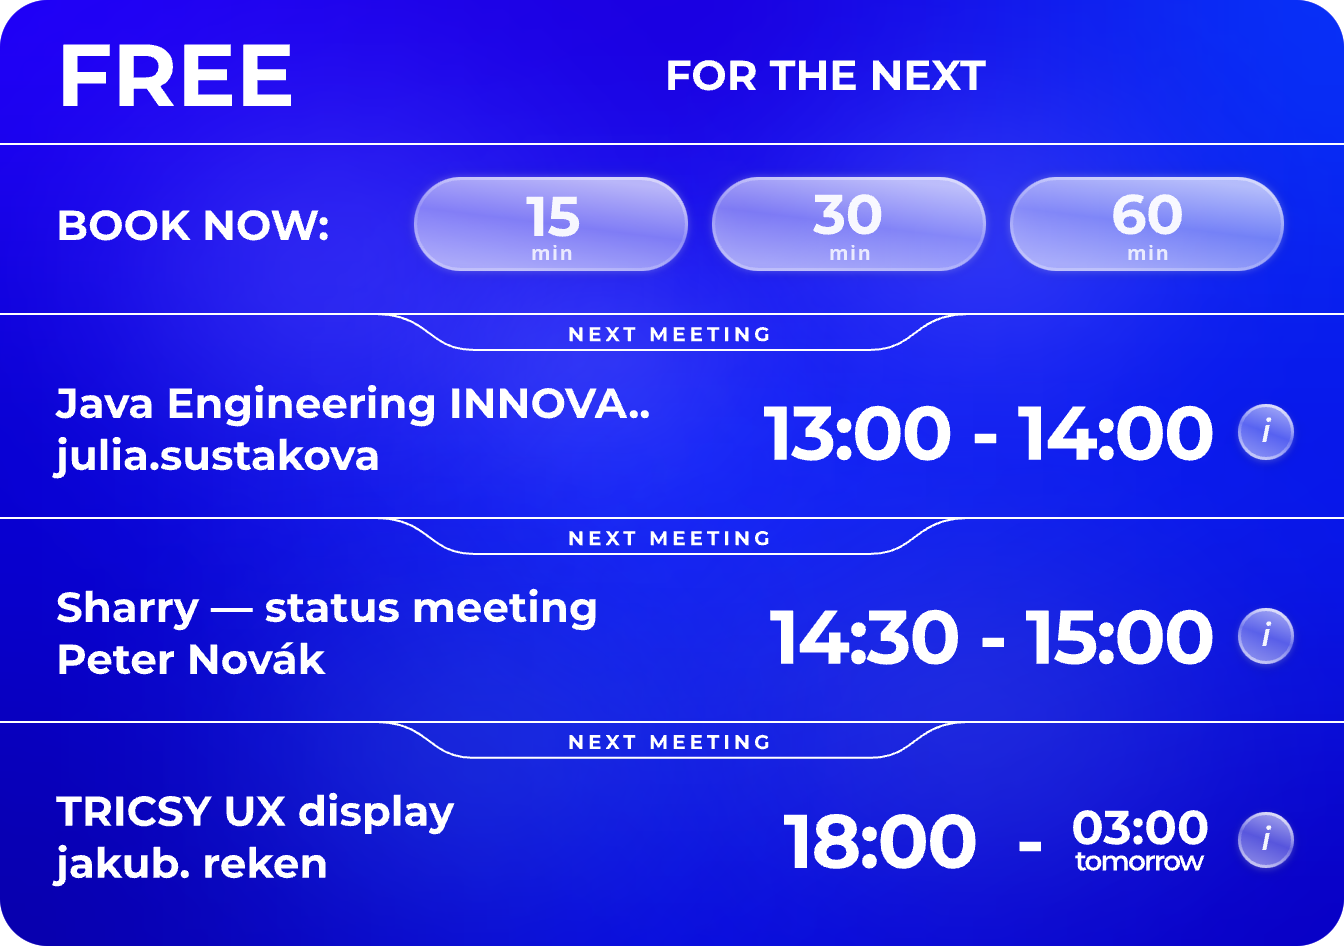
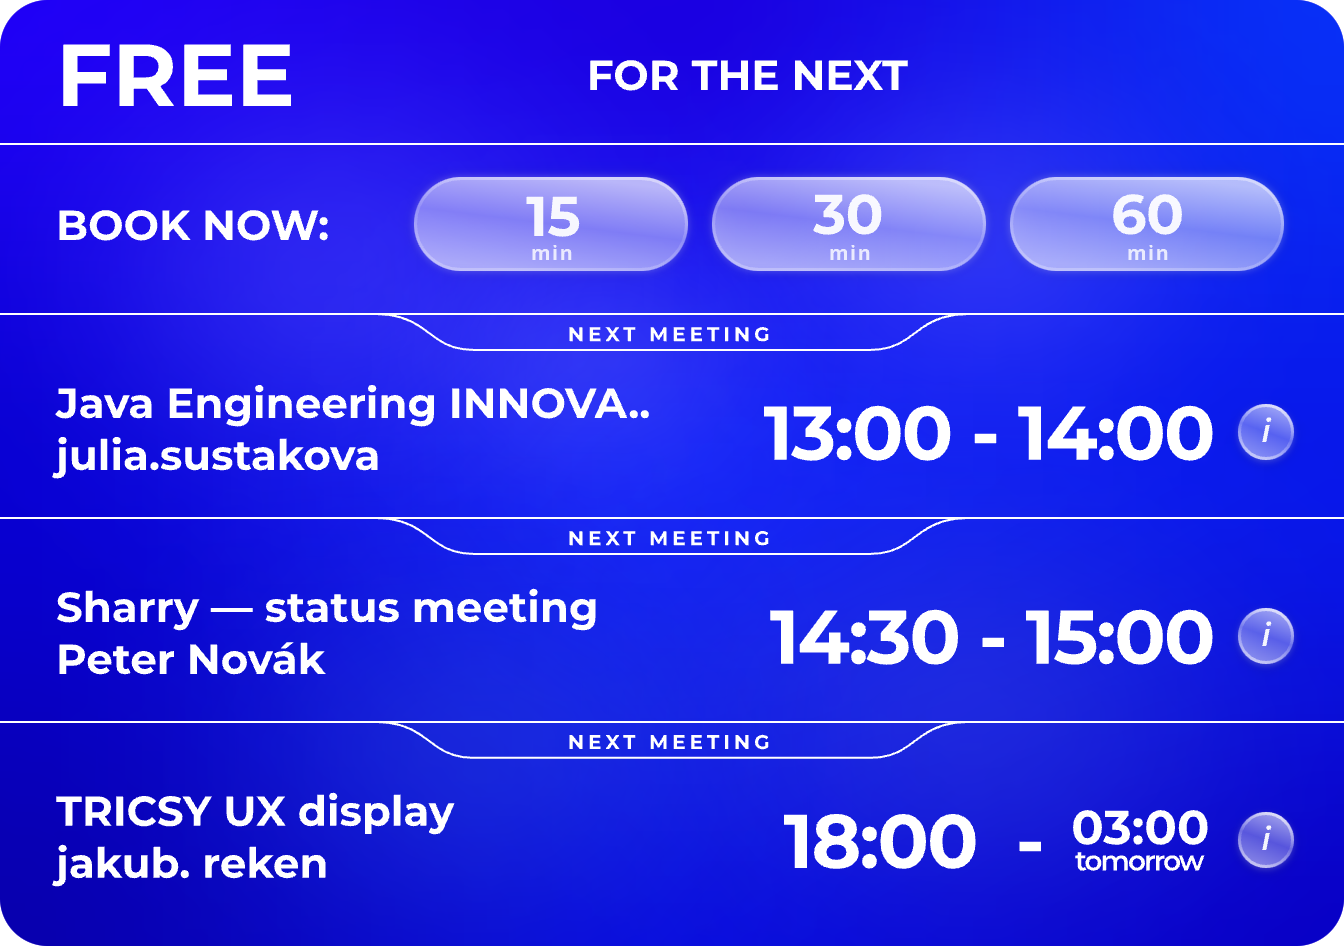
Fix button hotspot positions and countdown spacing
- Hotspots aligned precisely to 15/30/60 min buttons
- Countdown text with more letter-spacing
- Re-exported FREE card PNG with updated layout

Changed region(s): [[0.4375, 0.0613, 0.75, 0.092]]

diff --git a/index.html b/index.html
@@ -214,15 +214,15 @@ body{
     <!-- FREE STATE (default) -->
     <div id="freeCard" class="card-state active">
       <img src="occupy-assets/ZKEGP.png" alt="FREE">
-      <div class="live-countdown" id="freeCountdown" style="left:390px;top:24px;width:280px;">60min.</div>
-      <div class="hotspot" data-action="book-inside" data-min="15" style="left:170px;top:56px;width:150px;height:55px;border-radius:65px;"></div>
-      <div class="hotspot" data-action="book-inside" data-min="30" style="left:322px;top:56px;width:150px;height:55px;border-radius:65px;"></div>
-      <div class="hotspot" data-action="book-inside" data-min="60" style="left:470px;top:56px;width:150px;height:55px;border-radius:65px;"></div>
+      <div class="live-countdown" id="freeCountdown" style="left:360px;top:20px;width:300px;letter-spacing:1px;">60min.</div>
+      <div class="hotspot" data-action="book-inside" data-min="15" style="left:222px;top:95px;width:148px;height:50px;border-radius:65px;"></div>
+      <div class="hotspot" data-action="book-inside" data-min="30" style="left:374px;top:95px;width:147px;height:50px;border-radius:65px;"></div>
+      <div class="hotspot" data-action="book-inside" data-min="60" style="left:525px;top:95px;width:147px;height:50px;border-radius:65px;"></div>
     </div>
     <!-- OCCUPIED STATE -->
     <div id="occupiedCard" class="card-state">
       <img src="occupy-assets/xtOgi.png" alt="OCCUPIED">
-      <div class="live-countdown" id="liveCountdown" style="left:390px;top:24px;width:280px;">60:00</div>
+      <div class="live-countdown" id="liveCountdown" style="left:360px;top:20px;width:300px;letter-spacing:1px;">60:00</div>
     </div>
   </div>
 
